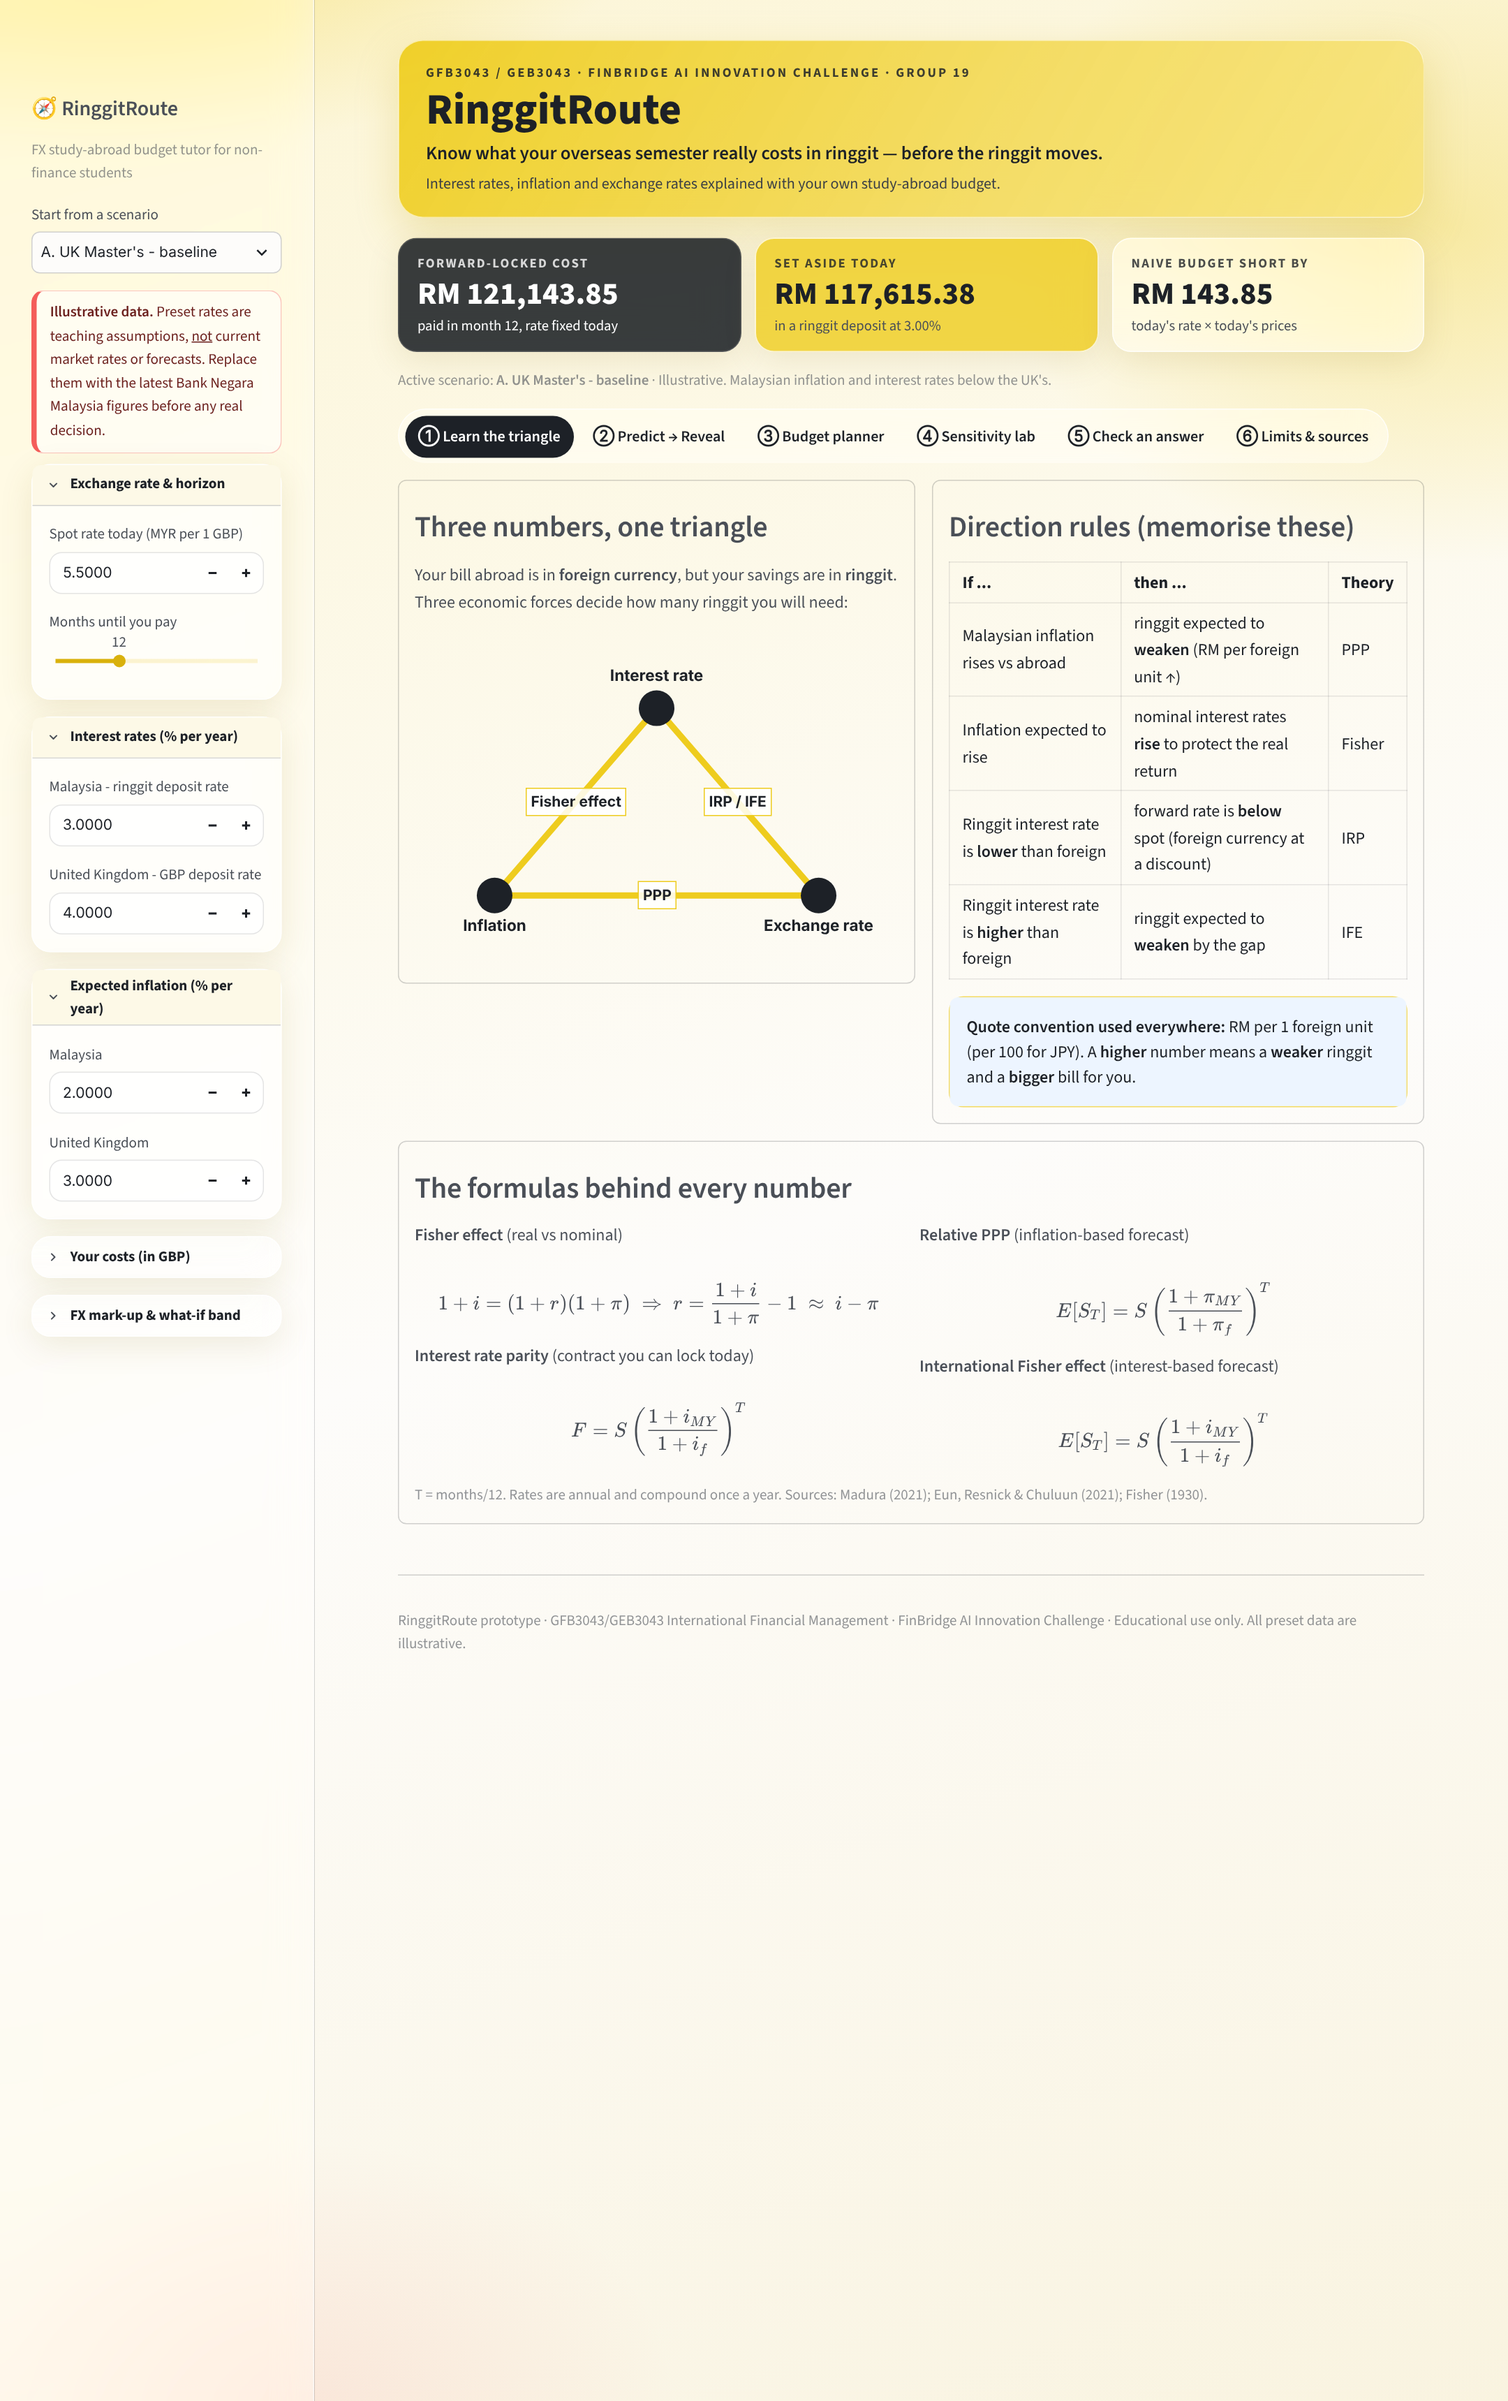
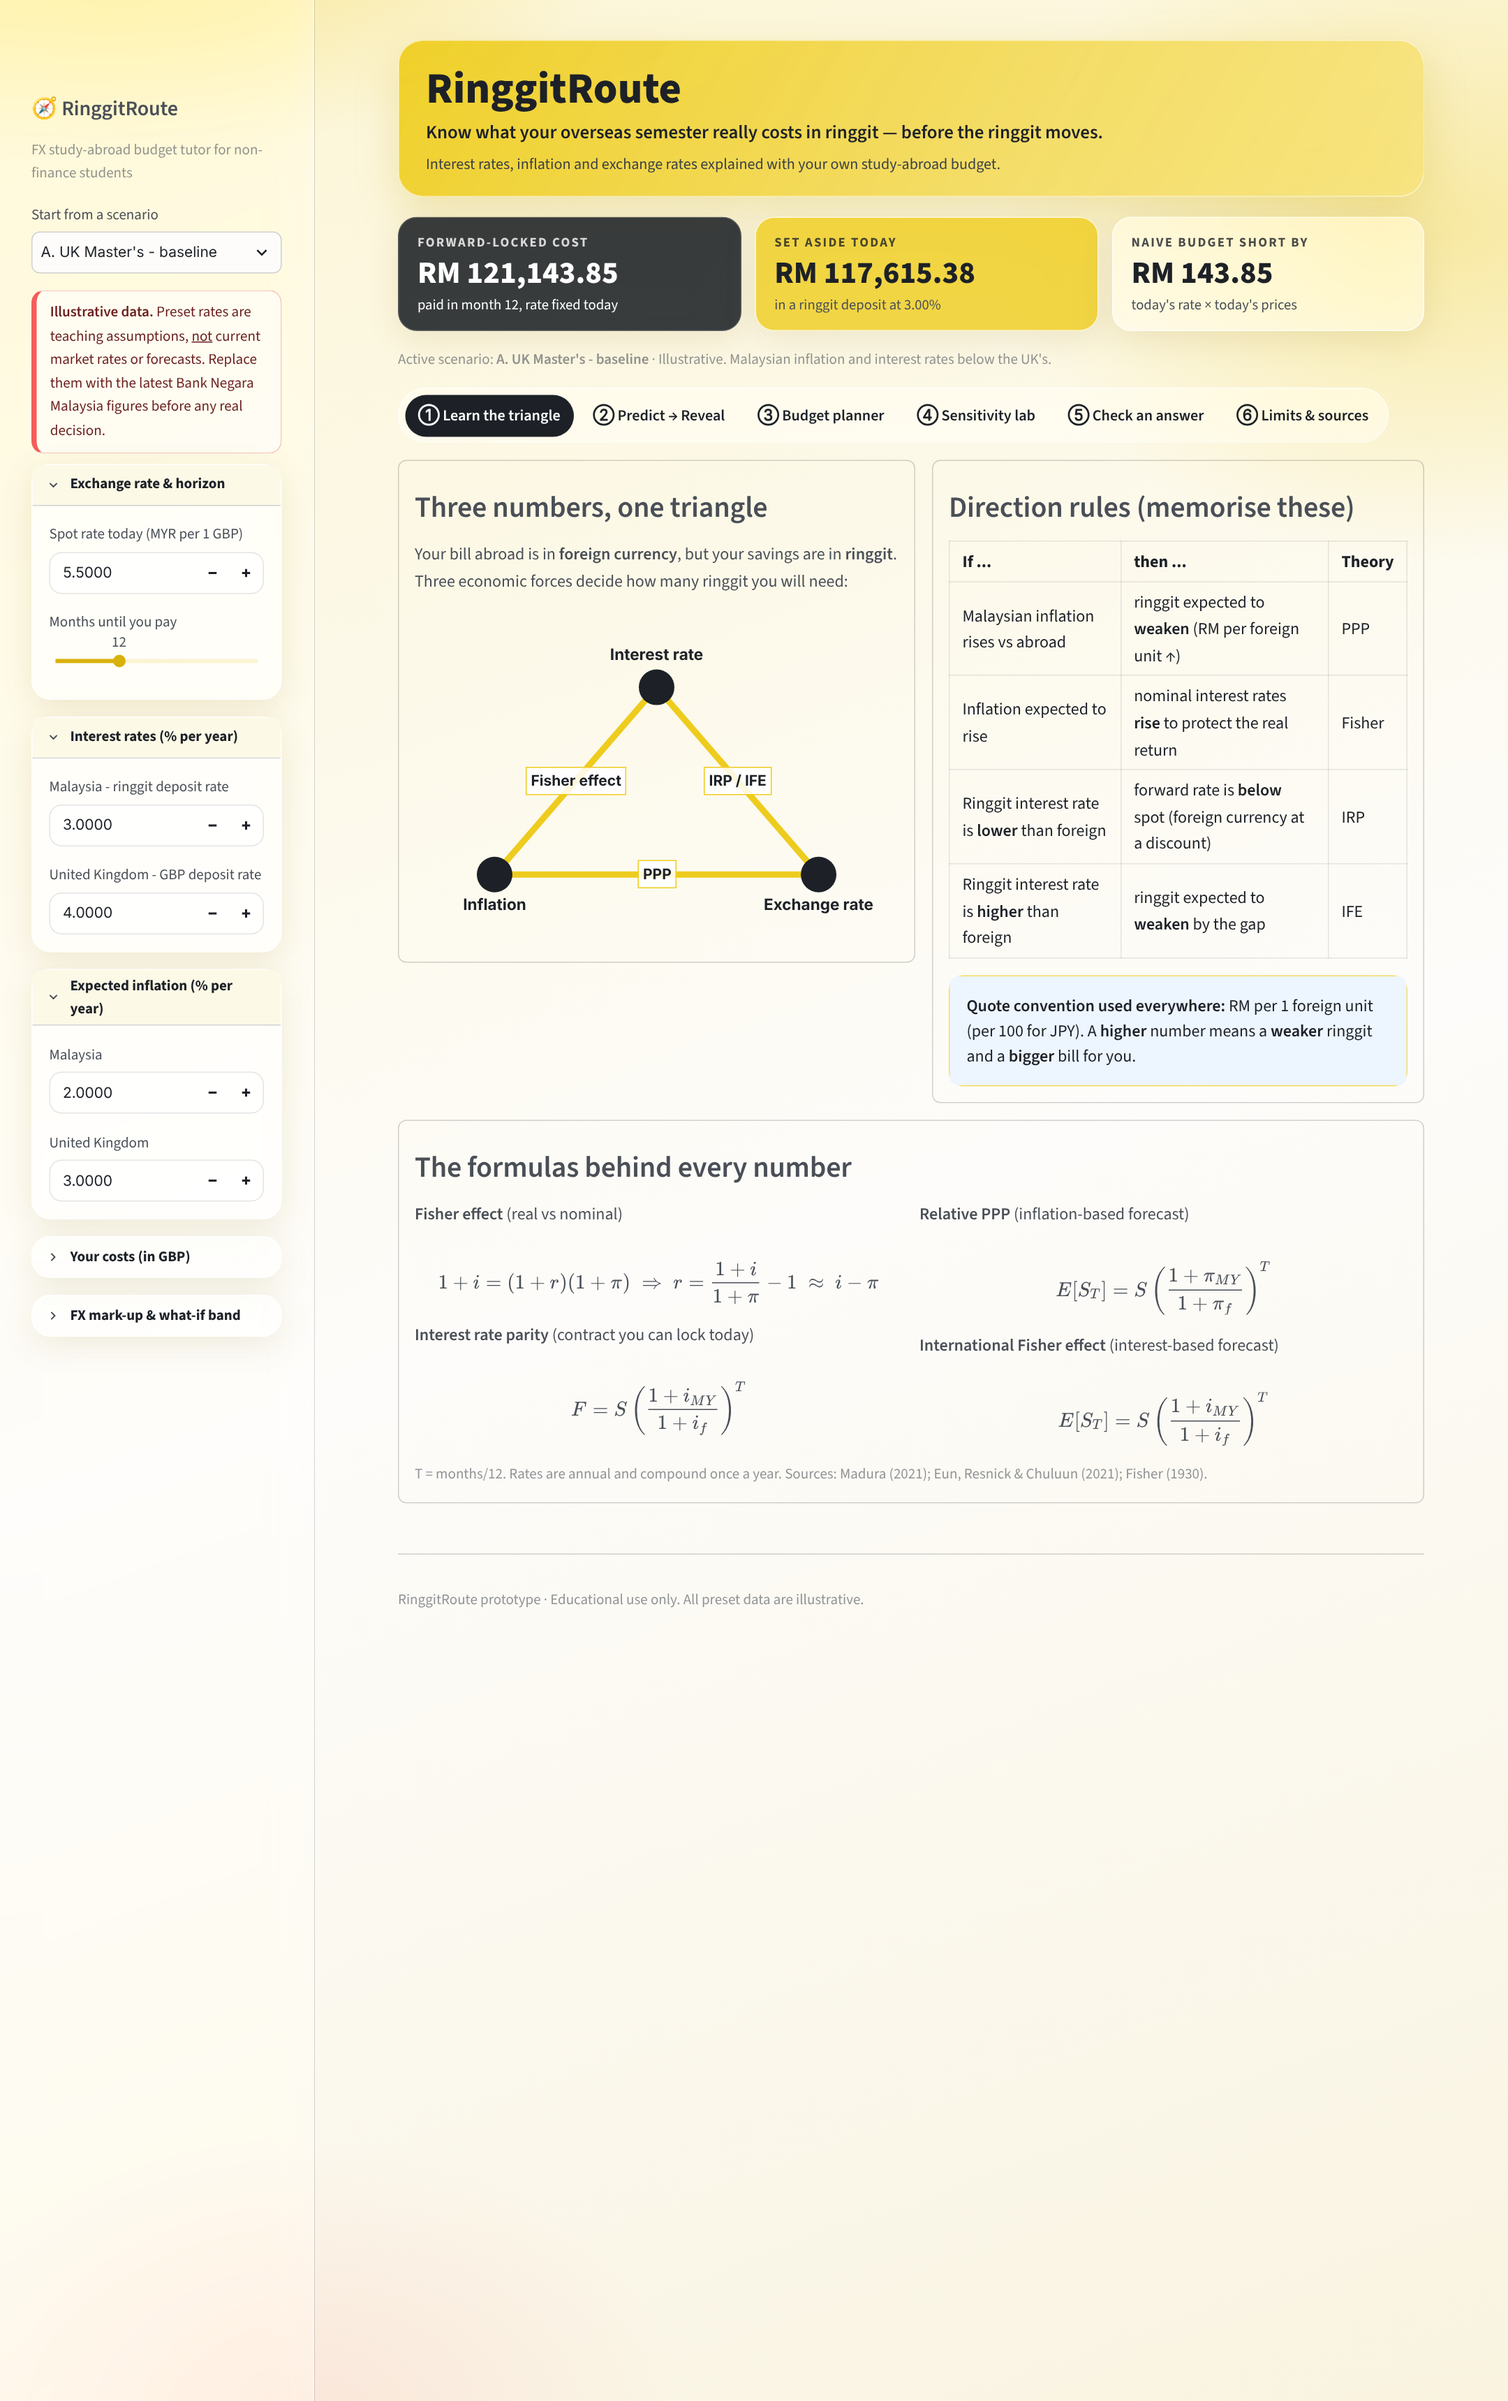
Remove course and group identifiers from the app, README and code comments

diff --git a/app.py b/app.py
@@ -1,6 +1,5 @@
 """
 RinggitRoute - FX Study-Abroad Budget Tutor
-GFB3043/GEB3043 International Financial Management - FinBridge AI Innovation Challenge
 
 Run locally:   pip install -r requirements.txt
                streamlit run app.py
@@ -93,8 +92,7 @@ R = evaluate(S)
 
 # ---------------------------------------------------------------- header + answer up front
 st.markdown(
-    "<div class='rr-hero'><div class='rr-kicker'>GFB3043 / GEB3043 · FinBridge AI Innovation Challenge · Group 19</div>"
-    "<div class='rr-title'>RinggitRoute</div>"
+    "<div class='rr-hero'><div class='rr-title'>RinggitRoute</div>"
     "<div class='rr-tag'>Know what your overseas semester really costs in ringgit — before the ringgit moves.</div>"
     "<div class='rr-sub'>Interest rates, inflation and exchange rates explained with your own study-abroad budget.</div>"
     "</div>", unsafe_allow_html=True)
@@ -380,5 +378,4 @@ with tabs[5]:
                         "model, so every sentence is traceable to a formula. AI assistance used in building the project is "
                         "disclosed in the report.")
 st.divider()
-st.caption("RinggitRoute prototype · GFB3043/GEB3043 International Financial Management · FinBridge AI Innovation "
-           "Challenge · Educational use only. All preset data are illustrative.")
+st.caption("RinggitRoute prototype · Educational use only. All preset data are illustrative.")

diff --git a/engine/fx_engine.py b/engine/fx_engine.py
@@ -3,7 +3,7 @@ RinggitRoute - finance engine
 =============================
 
 Pure, side-effect-free functions for the three CLO3 parity relationships used by the
-RinggitRoute prototype (GFB3043/GEB3043 International Financial Management).
+RinggitRoute prototype.
 
 Conventions (applied everywhere in the app, report and slides)
 ---------------------------------------------------------------

diff --git a/README.md b/README.md
@@ -1,7 +1,5 @@
 # RinggitRoute — FX Study-Abroad Budget Tutor
 
-GFB3043 / GEB3043 International Financial Management · FinBridge AI Innovation Challenge · Group 19
-
 RinggitRoute helps non-finance university students in Malaysia plan the ringgit cost of an overseas
 semester or degree, while learning how **interest rates, inflation and exchange rates** are linked
 (Fisher effect, interest rate parity, purchasing power parity and the international Fisher effect).
